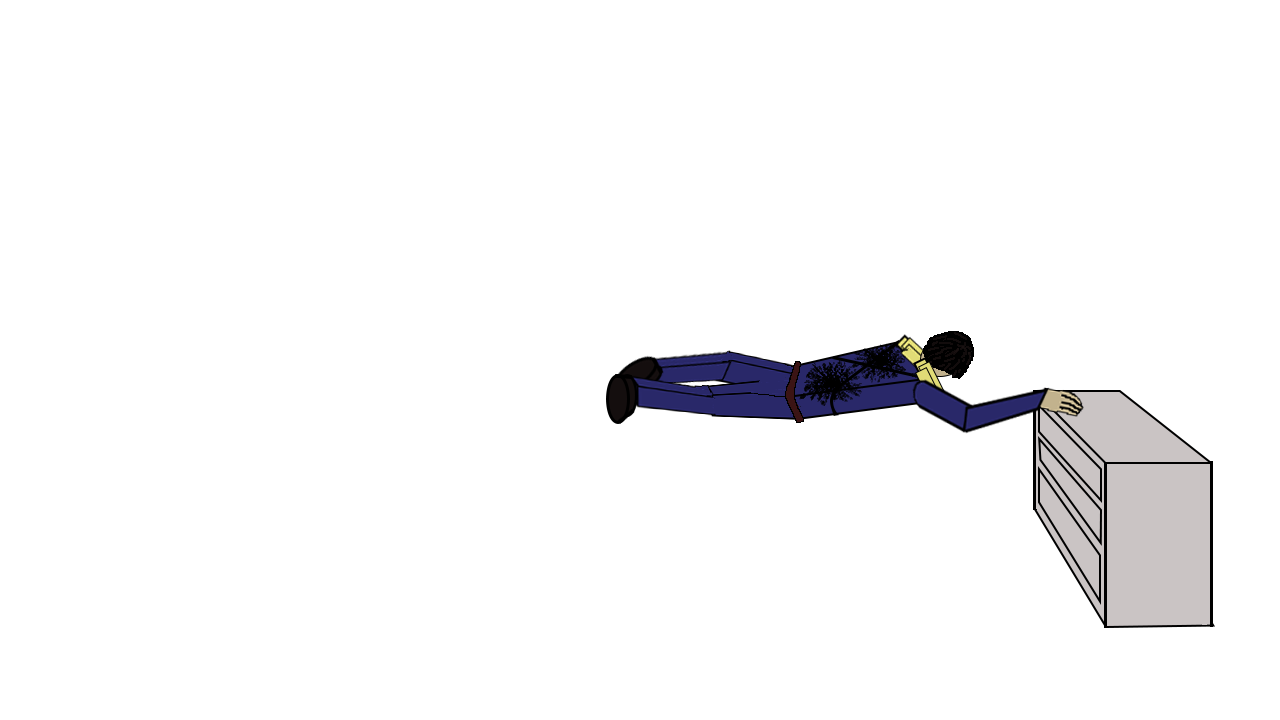
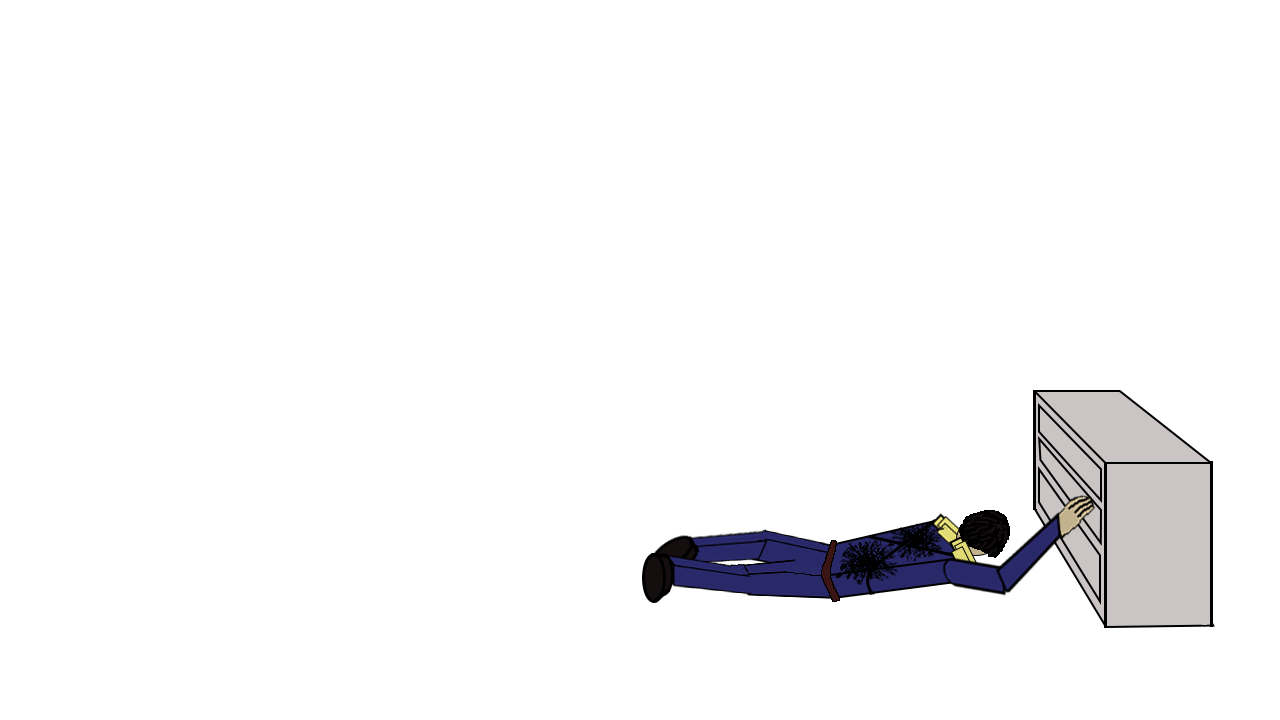
temporary fix for scripts 9 and 10,  new Scene2 BG, new captain art

Changed region(s): [[0.5, 0.6722, 0.875, 0.8556], [0.4688, 0.4583, 0.8438, 0.6111]]

diff --git a/SpaceGame/Assets/Scripts/Scene9Dialogue.cs b/SpaceGame/Assets/Scripts/Scene9Dialogue.cs
@@ -1,0 +1,202 @@
+using UnityEngine;
+using System.Collections;
+using System.Collections.Generic;
+using UnityEngine.UI;
+using UnityEngine.SceneManagement;
+using UnityEngine.Audio;
+
+public class Scene9Dialogue : MonoBehaviour {
+    public int primeInt = 1;         // This integer drives game progress!
+    public Text Char1name;
+    public Text Char1speech;
+    public Text Char2name;
+    public Text Char2speech;
+    public Text Char3name;
+    public Text Char3speech;
+    public GameObject DialogueDisplay;
+    public GameObject ArtChar1;
+    //public GameObject ArtChar1b;
+    //public GameObject ArtChar2;
+    public GameObject ArtBG1;
+    public GameObject Choice1a;    // go to bridge
+    public GameObject Choice1b;    // remain in generator room
+    public GameObject NextScene1Button;
+    public GameObject NextScene2Button;
+    public GameObject nextButton;
+    //public GameHandler gameHandler;
+    //public AudioSource audioSource;
+    private bool allowSpace = true;
+
+    // initial visibility settings. Any new images or buttons need to also be SetActive(false);
+    void Start(){  
+        DialogueDisplay.SetActive(false);
+        ArtChar1.SetActive(false);
+        ArtBG1.SetActive(true);
+        Choice1a.SetActive(false);
+        Choice1b.SetActive(false);
+        NextScene1Button.SetActive(false);
+        NextScene2Button.SetActive(false);
+        nextButton.SetActive(true);
+
+        // Find the gameHandler:
+        // gameHandler = GameObject.FindWithTag("GameHandler").GetComponent<GameHandler>();
+    }
+
+    void Update(){         // use spacebar as Next button
+        if (allowSpace == true){
+            if (Input.GetKeyDown("space")){
+                next();
+            }
+        }
+    }
+
+    //Story Units! This is the main story function. Players hit [NEXT] to progress to the next primeInt:
+    public void next(){
+        primeInt = primeInt + 1;
+        if (primeInt == 1){
+            // AudioSource.Play();
+        }
+        else if (primeInt == 2){
+            ArtChar1.SetActive(true);
+            DialogueDisplay.SetActive(true);
+            Char1name.text = "";
+            Char1speech.text = "";
+            Char2name.text = "";
+            Char2speech.text = "";
+            Char3name.text = "H.O.R.I.Z.O.N.";
+            Char3speech.text = "Please reassemble the battery array.";
+        }
+        else if (primeInt ==3){
+            Char1name.text = "";
+            Char1speech.text = "";
+            Char2name.text = "";
+            Char2speech.text = "";
+            Char3name.text = "H.O.R.I.Z.O.N.";
+            Char3speech.text = "Attach the three batteries and reinstall.";
+            //gameHandler.AddPlayerStat(1);
+        }
+        else if (primeInt == 4){
+            Char1name.text = "YOU";
+            Char1speech.text = "OK, here goes nothing.";
+            Char2name.text = "";
+            Char2speech.text = "";
+            Char3name.text = "";
+            Char3speech.text = "";
+        }
+        else if (primeInt == 5){
+            Char1name.text = "";
+            Char1speech.text = "";
+            Char2name.text = "...";
+            Char2speech.text = "The generator powers on.";
+            Char3name.text = "";
+            Char3speech.text = "";
+            //gameHandler.AddPlayerStat(1);
+        }
+        else if (primeInt == 6){
+            Char1name.text = "YOU";
+            Char1speech.text = "Hey, it worked!";
+			Char2name.text = "";
+			Char2speech.text = "";
+			Char3name.text = "";
+			Char3speech.text = "";
+}
+        else if (primeInt == 7){
+            Char1name.text = "";
+            Char1speech.text = "";
+            Char2name.text = "";
+            Char2speech.text = "";
+            Char3name.text = "H.O.R.I.Z.O.N.";
+            Char3speech.text = "With the power restored, the Bridge is now accessible.";
+        }
+        else if (primeInt == 8){
+            Char1name.text = "";
+            Char1speech.text = "";
+            Char2name.text = "";
+            Char2speech.text = "";
+            Char3name.text = "H.O.R.I.Z.O.N.";
+            Char3speech.text = "Please proceed to the Bridge to reboot the computer.";
+            // Turn off "Next" button, turn on "Choice" buttons
+            nextButton.SetActive(false);
+            allowSpace = false;
+            Choice1a.SetActive(true); // function Choice1aFunct()
+            Choice1b.SetActive(true); // function Choice1bFunct()
+        }
+
+        else if (primeInt == 100){
+            Char1name.text = "";
+            Char1speech.text = "";
+            Char2name.text = "";
+            Char2speech.text = "";
+            Char3name.text = "";
+            Char3speech.text = "";
+        }
+        else if (primeInt == 101){
+            Char1name.text = "";
+            Char1speech.text = "";
+            Char2name.text = "";
+            Char2speech.text = "";
+            Char3name.text = "";
+            Char3speech.text = "";
+            nextButton.SetActive(false);
+            allowSpace = false;
+            NextScene1Button.SetActive(true);
+        }
+
+        else if (primeInt == 200){
+            Char1name.text = "";
+            Char1speech.text = "";
+            Char2name.text = "";
+            Char2speech.text = "";
+            Char3name.text = "";
+            Char3speech.text = "";
+        }
+        else if (primeInt == 201){
+            Char1name.text = "";
+            Char1speech.text = "";
+            Char2name.text = "";
+            Char2speech.text = "";
+            Char3name.text = "";
+            Char3speech.text = "";
+            nextButton.SetActive(false);
+            allowSpace = false;
+            NextScene2Button.SetActive(true);
+        }
+    } // Closing brace for the next() function
+
+    // FUNCTIONS FOR BUTTONS TO ACCESS (Choice #1 and switch-scenes)
+    public void Choice1aFunct(){
+        Char1name.text = "YOU";
+        Char1speech.text = "OK, let's go to the Bridge.";
+        Char2name.text = "";
+        Char2speech.text = "";
+        Char3name.text = "";
+        Char3speech.text = "";
+        primeInt = 99;
+        Choice1a.SetActive(false);
+        Choice1b.SetActive(false);
+        nextButton.SetActive(true);
+        allowSpace = true;
+    }
+
+    public void Choice1bFunct(){
+        Char1name.text = "YOU";
+        Char1speech.text = "Maybe I'll just wait in here.";
+        Char2name.text = "";
+        Char2speech.text = "";
+        Char3name.text = "";
+        Char3speech.text = "";
+        primeInt = 149;
+        Choice1a.SetActive(false);
+        Choice1b.SetActive(false);
+        nextButton.SetActive(true);
+        allowSpace = true;
+    }
+
+    public void SceneChange1(){
+        SceneManager.LoadScene("Scene10");
+    }
+
+    public void SceneChange2(){
+        SceneManager.LoadScene("Scene2b");
+    }
+}

diff --git a/SpaceGame/Assets/Scripts/Scene10Dialogue.cs b/SpaceGame/Assets/Scripts/Scene10Dialogue.cs
@@ -5,7 +5,7 @@ using UnityEngine.UI;
 using UnityEngine.SceneManagement;
 using UnityEngine.Audio;
 
-public class Scene9Dialogue : MonoBehaviour {
+public class Scene10Dialogue : MonoBehaviour {
         public int primeInt = 1;         // This integer drives game progress!
         public Text Char1name;
         public Text Char1speech;
